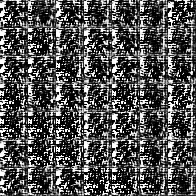
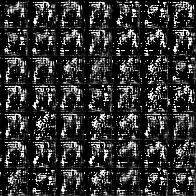
ok

diff --git a/gan3.py b/gan3.py
@@ -118,8 +118,8 @@ def train():
     print("-------------------")
     z_pred = np.array([np.random.uniform(-1,1,100) for _ in range(49)])
     y_g = [1]*BATCH_SIZE
-    y_d_true = [1]*BATCH_SIZE
-    y_d_gen = [0]*BATCH_SIZE
+    y_d_true = [0]*BATCH_SIZE
+    y_d_gen = [1]*BATCH_SIZE
     for epoch in list(map(lambda x: x+1,range(NUM_EPOCH))):
         for index in range(num_batches):
             X_d_true = X_train[index*BATCH_SIZE:(index+1)*BATCH_SIZE]
